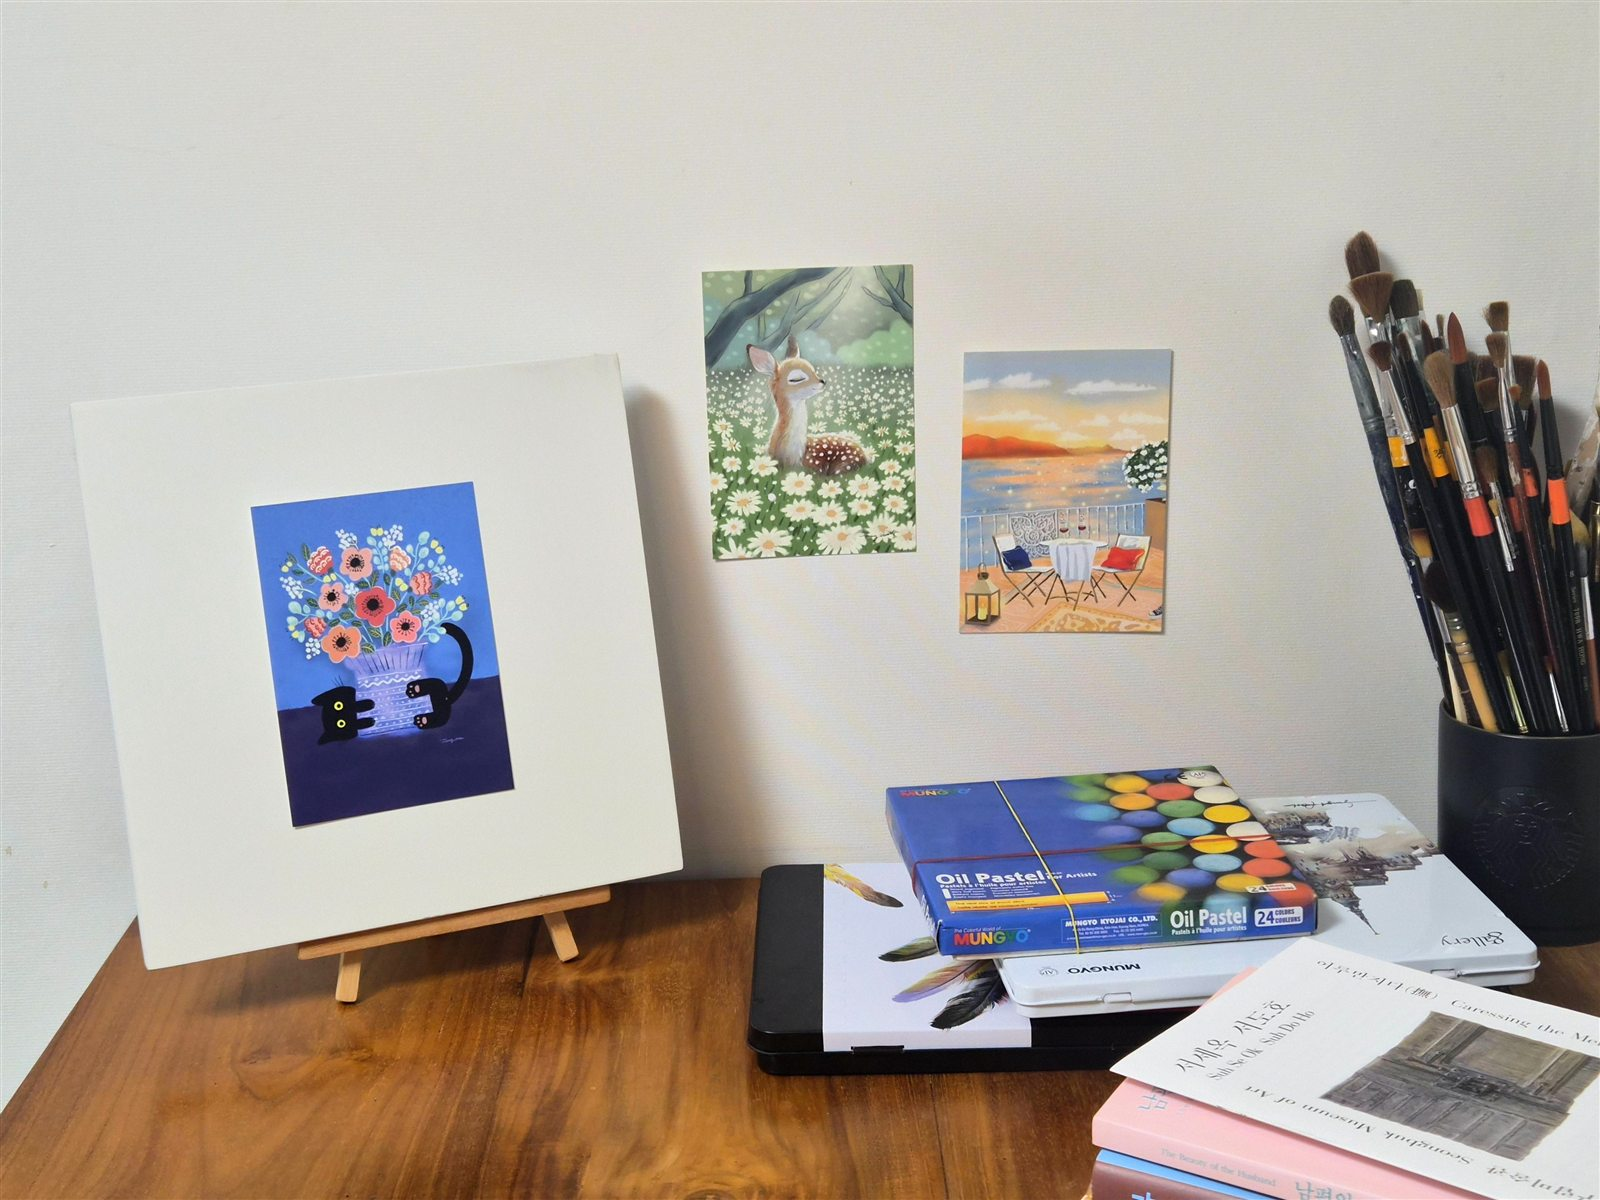
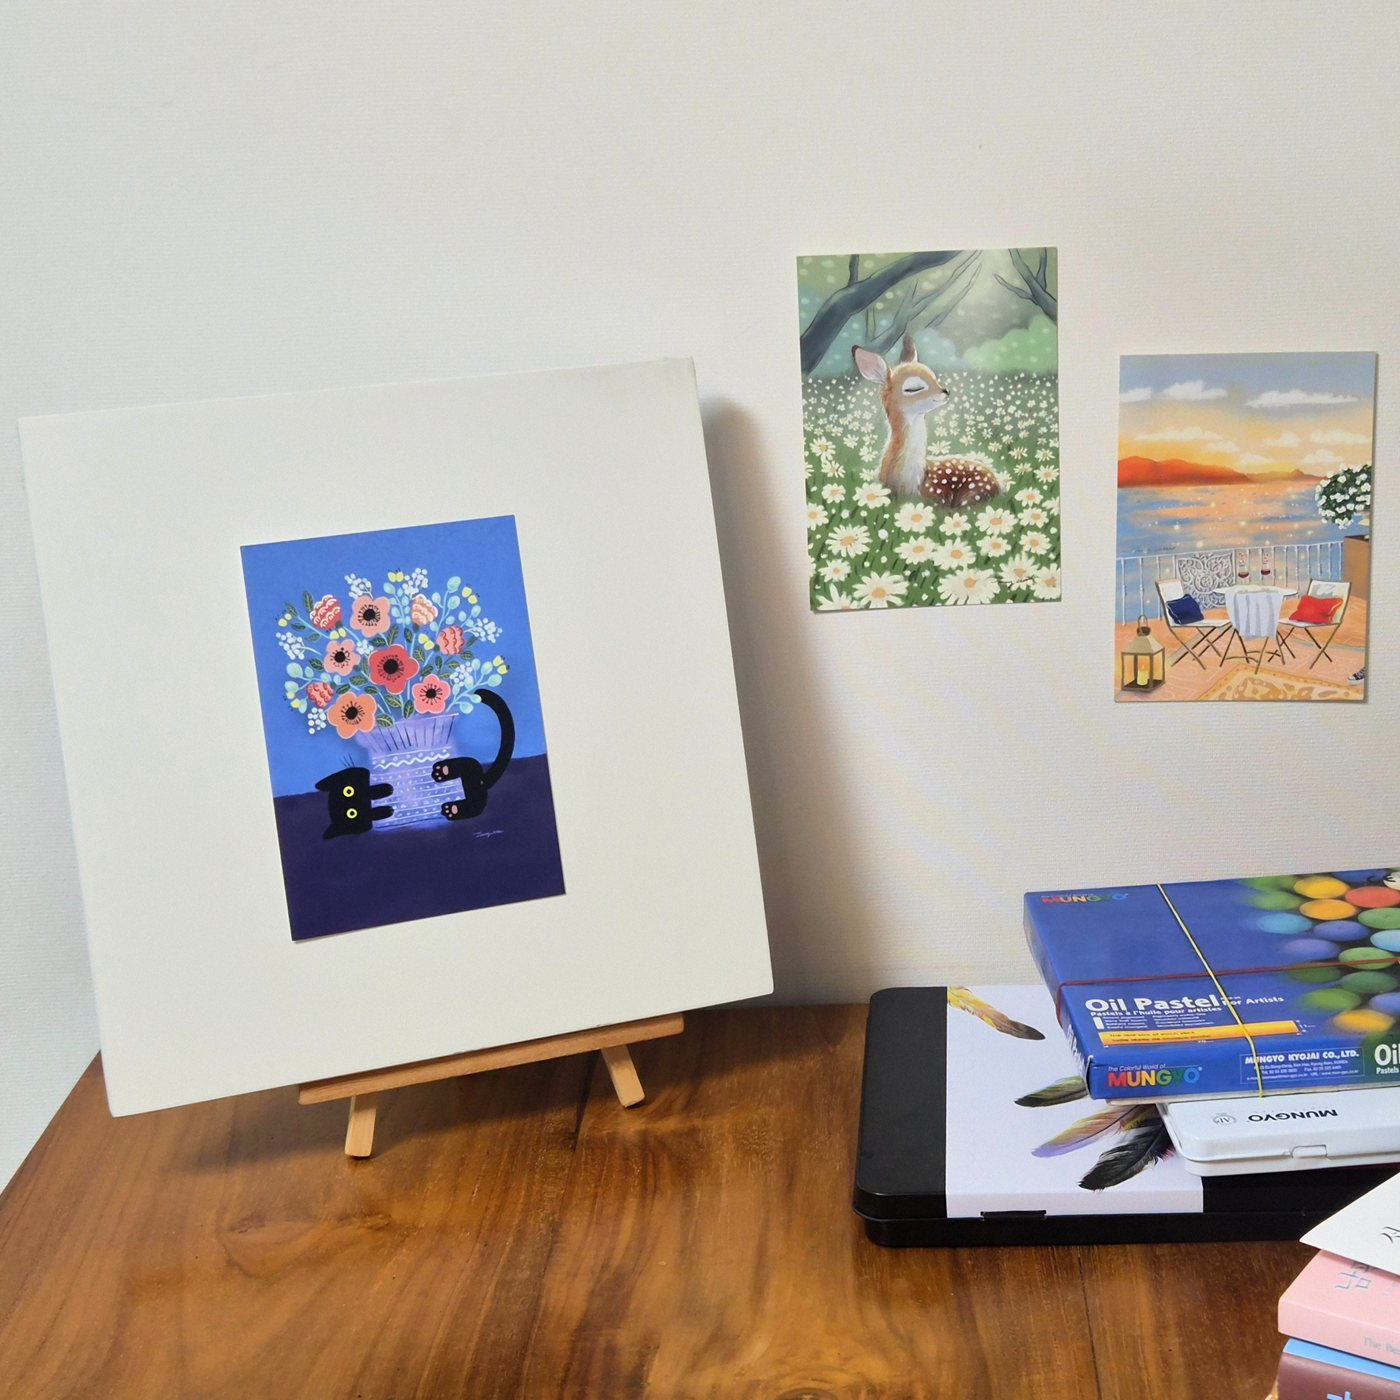
Shop 엽서 정보 보강, 대표 이미지 정사각 교체 및 세트 구성 정리

diff --git a/src/content/legacy-pages/shop.html b/src/content/legacy-pages/shop.html
@@ -26,9 +26,9 @@
           <article class="shop-item reveal" id="art-postcard">
             <div class="shop-art shop-postcard-art" aria-label="BellaVi Art Postcard 작품 이미지 미리보기">
               <div class="postcard-gallery">
-                <img src="images/shop-postcard-gallery-01.jpg" alt="반투명 봉투에 담아 실링스티커로 봉한 BellaVi 그림 엽서 세 장" class="is-active" data-postcard-image="0">
+                <img src="images/shop-postcard-gallery-01.jpg" alt="벽에 붙인 꽃사슴, 휴가, 푸른화병과 고양이 그림 엽서" class="is-active" data-postcard-image="0">
                 <img src="images/shop-postcard-gallery-02.jpg" alt="작업 책상 위 액자와 벽면에 장식한 BellaVi 그림 엽서" data-postcard-image="1">
-                <img src="images/shop-postcard-gallery-03.jpg" alt="벽에 붙인 꽃사슴, 휴가, 푸른화병과 고양이 그림 엽서" data-postcard-image="2">
+                <img src="images/shop-postcard-gallery-03.jpg" alt="반투명 봉투에 담아 실링스티커로 봉한 BellaVi 그림 엽서 세 장" data-postcard-image="2">
                 <button type="button" class="postcard-gallery-counter" data-postcard-counter aria-label="다음 상품 이미지 보기"><span data-postcard-current>1</span>/<span data-postcard-total>3</span></button>
               </div>
             </div>
@@ -37,7 +37,10 @@
               <h2>BellaVi Art Postcard</h2>
               <p class="shop-korean-title">일상에 작은 그림 한 점, BellaVi 아트 엽서 세트</p>
               <p class="shop-description">좋아하는 그림을 가까이 두고, 소중한 사람에게 마음을 전하는 작은 예술 선물. 작은 액자에 넣거나 벽에 붙이면 나만의 공간을 꾸미는 작은 그림이 되고, 뒷면에 마음을 적으면 누군가에게 전하는 특별한 선물이 됩니다.</p>
-              <ul class="shop-details"><li>1종 세트: 휴가 · 꽃사슴 · 푸른화병과 고양이 중 선택</li><li><span>1종 세트 · 엽서 1장 + 봉투 1장 + 실링스티커 1개</span><strong>3,900원</strong></li><li><span>3종 세트 · 엽서 3장 + 봉투 3장 + 스티커 3개 + 작품 이야기 카드</span><strong>9,900원</strong></li></ul>
+              <ol class="shop-set-options">
+                <li><span class="shop-set-no">1</span><div><p class="shop-set-head"><strong>1종 세트</strong><em>3,900원</em></p><p class="shop-set-items">엽서 1장 + 봉투 1장 + 실링스티커 1개 + 작품 이야기 카드</p><p class="shop-set-choice">휴가 · 꽃사슴 · 푸른화병과 고양이 중 선택</p></div></li>
+                <li><span class="shop-set-no">2</span><div><p class="shop-set-head"><strong>3종 세트</strong><em>9,900원</em></p><p class="shop-set-items">엽서 3장 + 봉투 3장 + 실링스티커 3개 + 작품 이야기 카드</p></div></li>
+              </ol>
               <div class="shop-actions">
                 <button class="shop-buy-button shop-buy-secondary" type="button" data-shop-toggle aria-expanded="false" aria-controls="postcard-options">장바구니 담기</button>
                 <a class="shop-buy-button shop-buy-primary" href="https://www.latpeed.com/products/x_xHw" target="_blank" rel="noopener noreferrer">바로 구매</a>
@@ -108,9 +111,10 @@
           <h3 class="shop-detail-title">상품 구성</h3>
           <figure class="shop-detail-photo shop-detail-photo-portrait"><img src="images/shop-postcard-detail-set.jpg" alt="3종 세트 구성: 그림 엽서 3장, 반투명 봉투 3장, 실링스티커 3개" loading="lazy"><figcaption>3종 세트 구성 · 그림 엽서 3장, 봉투 3장, 실링스티커 3개</figcaption></figure>
           <div class="shop-set-grid">
-            <article class="shop-set-card"><p class="shop-set-name">그림 엽서 1종 세트</p><strong>3,900원</strong><ul><li>BellaVi 그림 엽서 1장</li><li>봉투 1장</li><li>실링스티커 1개</li></ul><p>한 장의 그림을 가볍게 소장하거나 선물하고 싶은 분께</p></article>
-            <article class="shop-set-card"><p class="shop-set-name">그림 엽서 3종 세트</p><strong>9,900원</strong><ul><li>BellaVi 그림 엽서 3장</li><li>봉투 3장</li><li>스티커 3개</li><li>작품 이야기 카드</li></ul><p>여러 그림을 함께 감상하고 공간을 꾸미고 싶은 분께</p></article>
+            <article class="shop-set-card"><p class="shop-set-name">그림 엽서 1종 세트</p><strong>3,900원</strong><ul><li>BellaVi 그림 엽서 1장</li><li>봉투 1장</li><li>실링스티커 1개</li><li>작품 이야기 카드</li></ul><p>한 장의 그림을 가볍게 소장하거나 선물하고 싶은 분께</p></article>
+            <article class="shop-set-card"><p class="shop-set-name">그림 엽서 3종 세트</p><strong>9,900원</strong><ul><li>BellaVi 그림 엽서 3장</li><li>봉투 3장</li><li>실링스티커 3개</li><li>작품 이야기 카드</li></ul><p>여러 그림을 함께 감상하고 공간을 꾸미고 싶은 분께</p></article>
           </div>
+          <p class="shop-detail-note">※ 반투명 봉투는 가로형/세로형 중 랜덤으로, 실링스티커의 디자인은 랜덤으로 발송됩니다.</p>
         </div>
 
         <div class="shop-detail-block reveal">
@@ -120,6 +124,10 @@
             <div><dt>상품명</dt><dd>BellaVi 아트 엽서 세트</dd></div>
             <div><dt>상품 형태</dt><dd>실물 그림 엽서 세트</dd></div>
             <div><dt>엽서 크기</dt><dd>100 × 150mm</dd></div>
+            <div><dt>용지</dt><dd>랑데뷰 내추럴 240g</dd></div>
+            <div><dt>인쇄</dt><dd>단면 인쇄</dd></div>
+            <div><dt>봉투</dt><dd>반투명 봉투 (가로형 / 세로형 랜덤 발송)</dd></div>
+            <div><dt>실링스티커</dt><dd>디자인 랜덤 발송</dd></div>
             <div><dt>제작</dt><dd>BellaVi Studio</dd></div>
             <div><dt>판매처</dt><dd>래피드(Latpeed) 상품 페이지</dd></div>
             <div><dt>주문 방법</dt><dd>원하는 1종 또는 3종 세트를 선택해 결제</dd></div>

diff --git a/src/app/globals.css b/src/app/globals.css
@@ -894,6 +894,19 @@ a.shop-buy-button{display:inline-flex;align-items:center;justify-content:center;
 .shop-options-total strong{color:var(--sage-dark);font-family:var(--serif);font-size:21px}
 .shop-status{margin:10px 0 0;color:#858b86;font-size:12px}
 .shop-detail-link{margin-top:18px;font-size:14px}
+#art-postcard{align-items:start}
+#art-postcard .shop-copy{max-width:470px;padding-top:6px}
+#art-postcard .shop-korean-title{margin-bottom:22px;line-height:1.6}
+#art-postcard .shop-description{margin-bottom:34px;font-size:15.5px;line-height:2;color:#5c6159}
+.shop-set-options{display:grid;gap:12px;margin:0 0 32px;padding:0;list-style:none}
+.shop-set-options li{display:grid;grid-template-columns:28px 1fr;gap:12px;padding:18px 20px;border:1px solid var(--line);border-radius:14px;background:#faf6f0}
+.shop-set-no{display:flex;align-items:center;justify-content:center;width:26px;height:26px;border-radius:50%;background:var(--sage-dark);color:#fff;font-size:13px;font-weight:600}
+.shop-set-options p{margin:0}
+.shop-set-head{display:flex;align-items:baseline;justify-content:space-between;gap:12px;margin-bottom:6px!important}
+.shop-set-head strong{color:var(--ink);font-size:16px;font-weight:600}
+.shop-set-head em{color:var(--sage-dark);font-style:normal;font-size:16px;font-weight:600;white-space:nowrap}
+.shop-set-items{color:#586159;font-size:14px;line-height:1.75}
+.shop-set-choice{margin-top:6px!important;color:var(--sage-dark);font-size:13px;line-height:1.7}
 .shop-detail{background:#fff;border-top:1px solid var(--line)}
 .shop-detail-inner{width:min(100%,820px);margin:auto}
 .shop-detail-intro{margin-bottom:80px;text-align:center}
@@ -952,8 +965,8 @@ a.shop-buy-button{display:inline-flex;align-items:center;justify-content:center;
 .postcard-gallery{position:absolute;inset:0}
 .postcard-gallery img{position:absolute;inset:0;display:block;width:100%;height:100%;object-fit:cover;opacity:0;transition:opacity .4s ease}
 .postcard-gallery img.is-active{opacity:1}
-/* 세로 사진(1·3번째)은 엽서가 잘리지 않도록 자르지 않고 전체가 보이도록 둡니다. */
-.postcard-gallery img[data-postcard-image="0"],.postcard-gallery img[data-postcard-image="2"]{object-fit:contain;background:#e8e3da}
+/* 엽서 대표 이미지는 정사각 사진이므로 틀도 정사각으로 맞춰 여백 없이 채웁니다. */
+.shop-postcard-art{aspect-ratio:1/1}
 .postcard-gallery-counter{position:absolute;z-index:2;right:12px;bottom:12px;display:flex;align-items:center;gap:1px;padding:5px 12px;border:0;border-radius:99px;background:rgba(20,18,16,.55);color:#fff;font-size:12px;font-weight:600;letter-spacing:.02em;cursor:pointer;backdrop-filter:blur(2px);transition:background .2s}
 .postcard-gallery-counter:hover{background:rgba(20,18,16,.75)}
 
